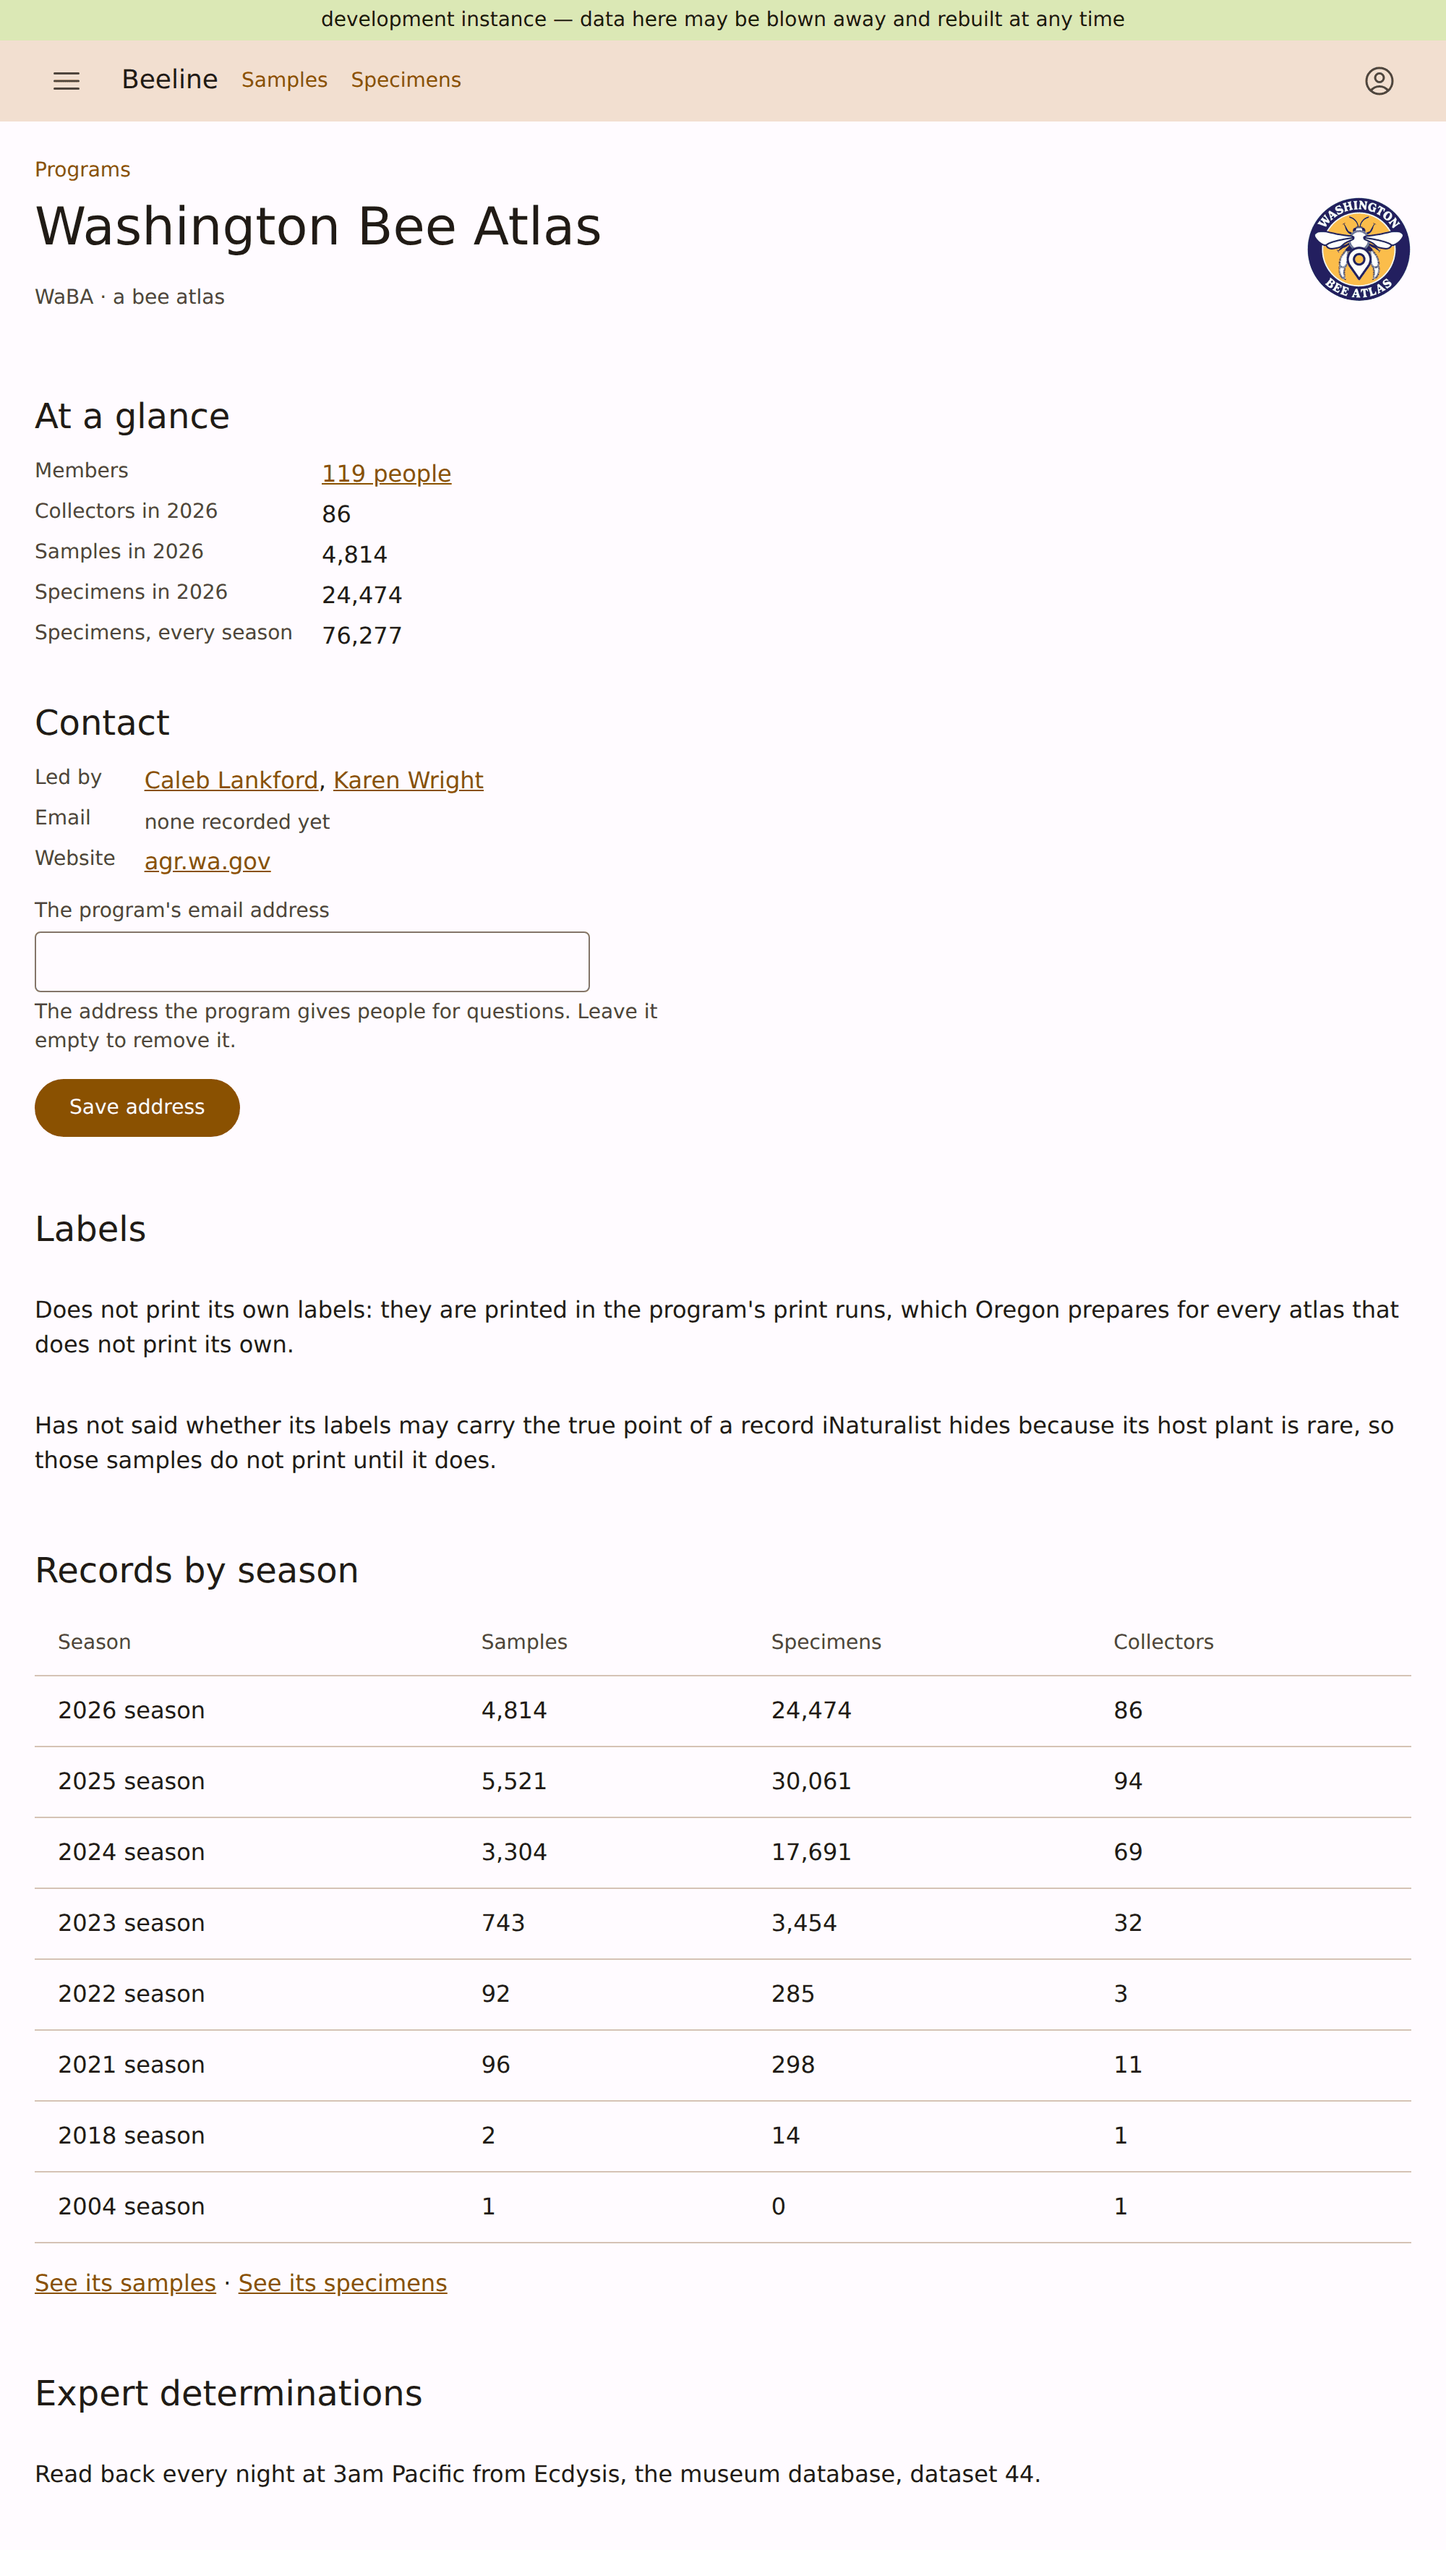
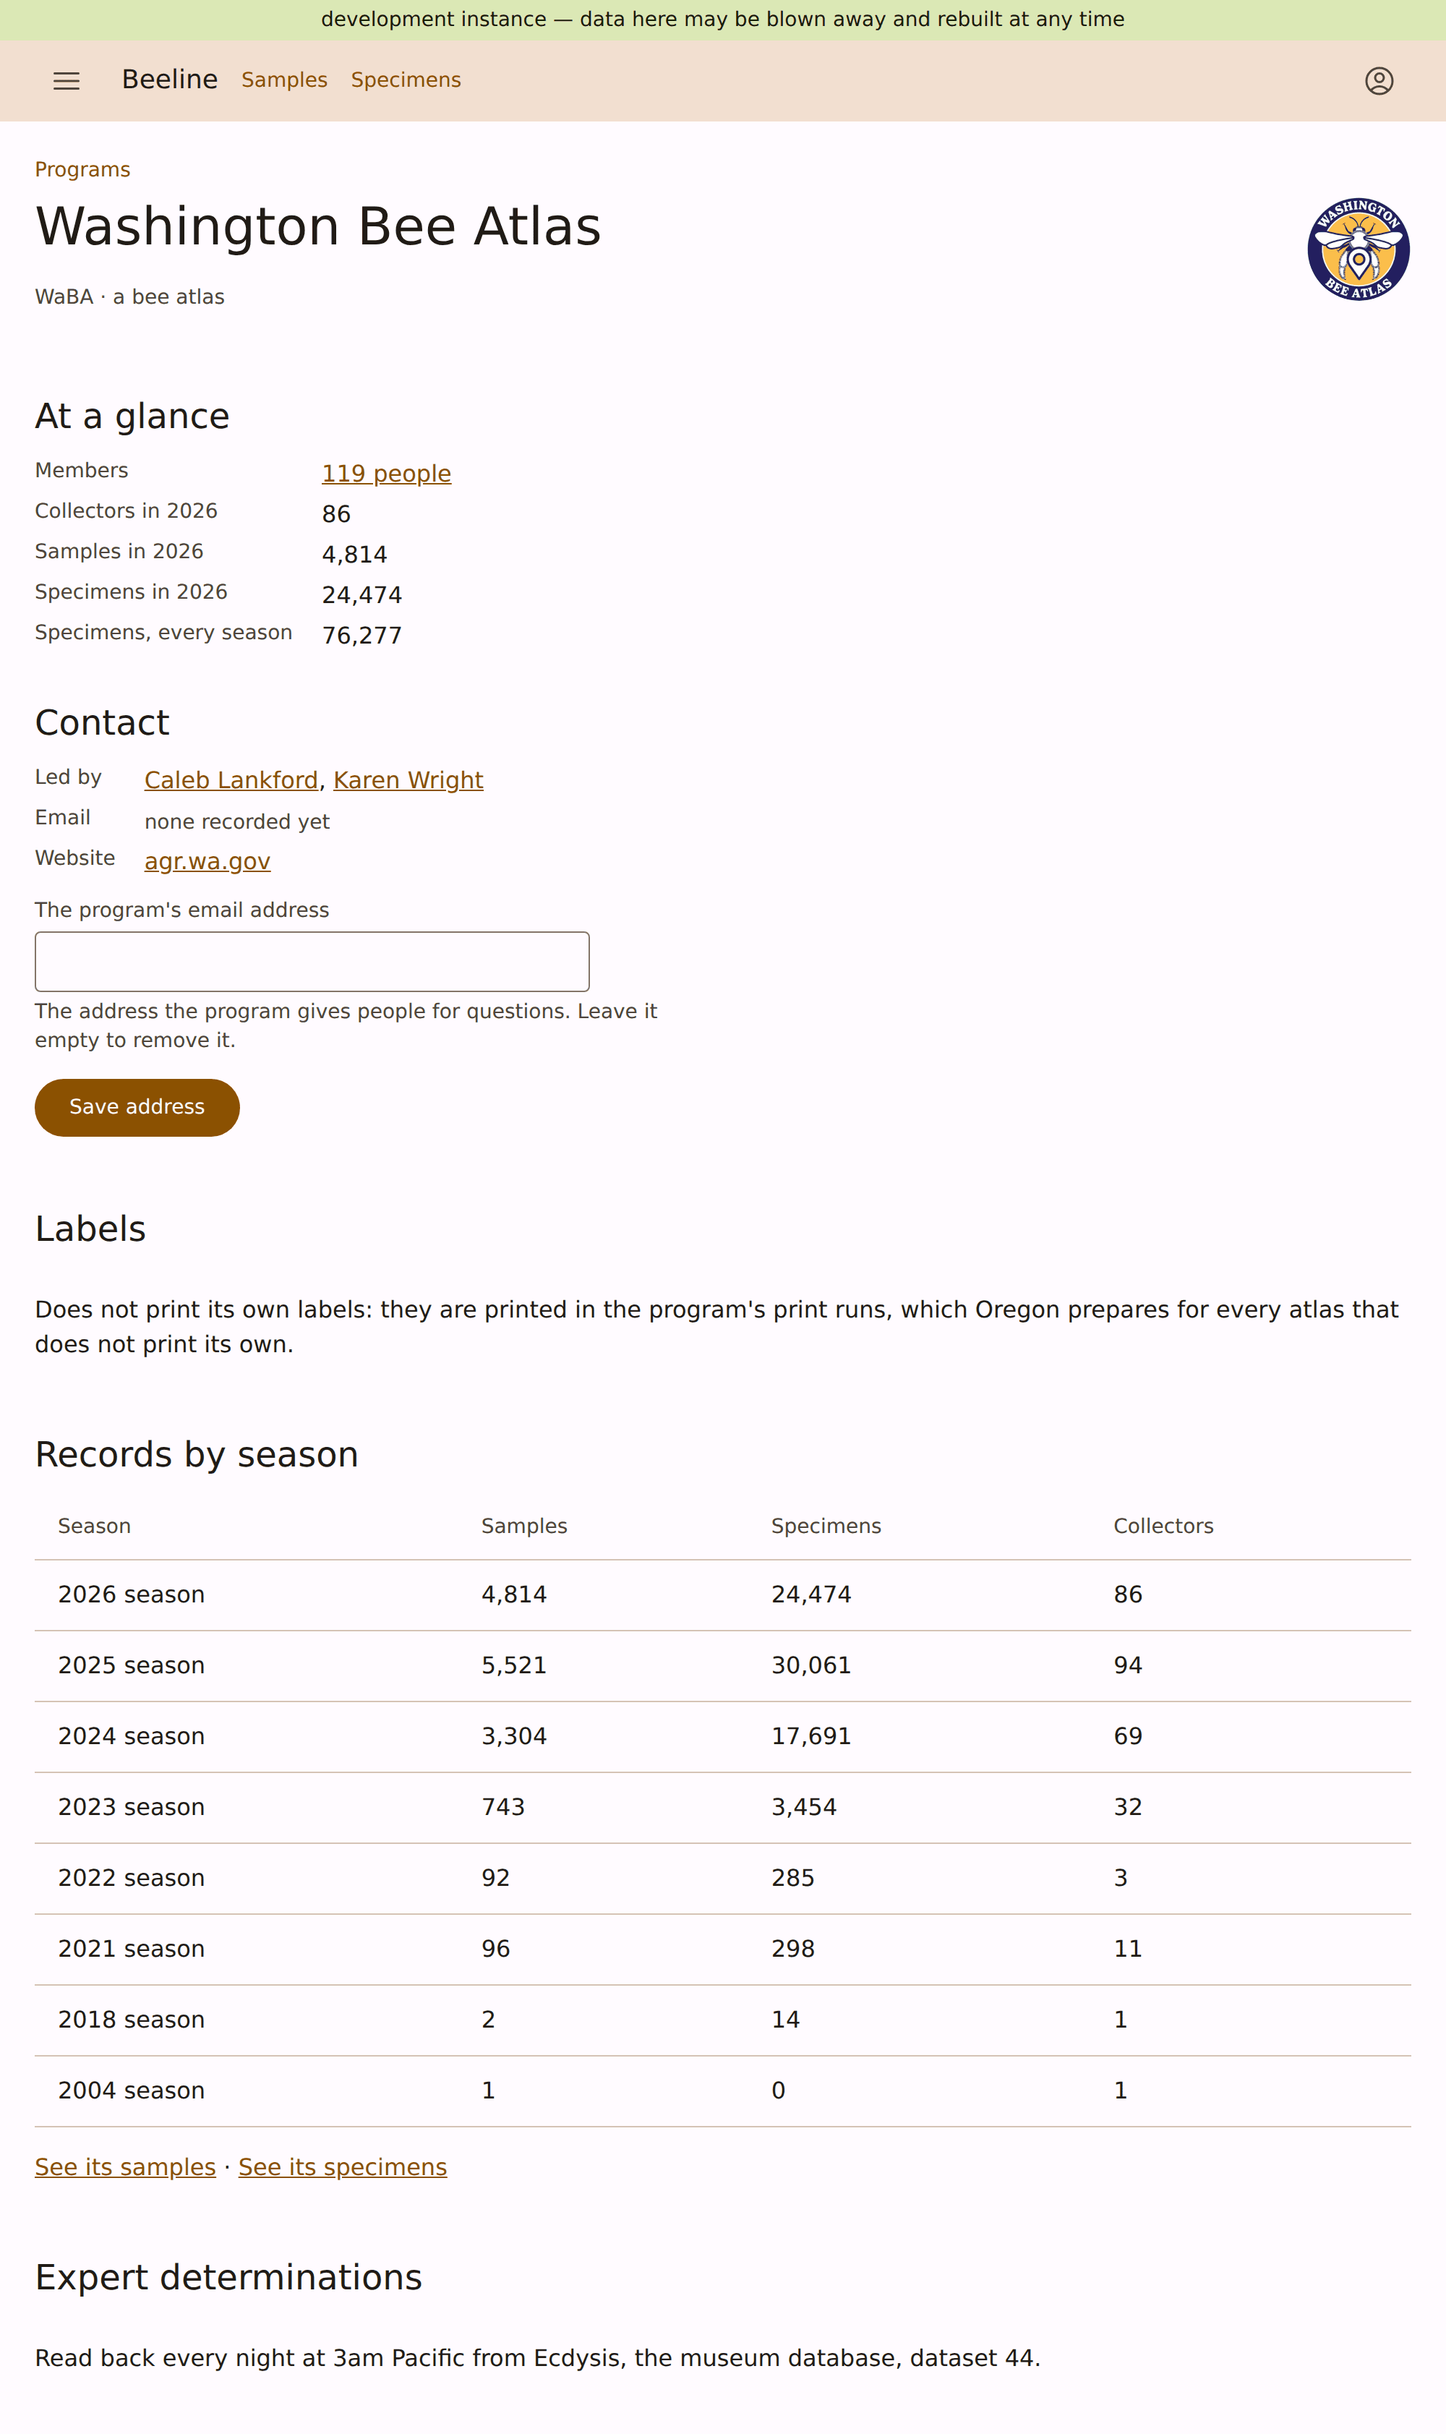
Programs: drop the taxon-obscured paragraph from the page
A label holds the true coordinates or none (Peter, 2026-10-23), so an
atlas's answer on printing an obscured record's true point is not something
the program page needs to say.

diff --git a/src/app/programs.ts b/src/app/programs.ts
@@ -10,8 +10,8 @@ import { personHandle } from "./roster.js";
  * The programs, as a listing and a page each (beeline-rrit): what Beeline
  * knows about a program, which until now was said in a dozen places — its
  * leads, how many people belong to it, its records by season, who prints its
- * labels, its answer on taxon-obscured coordinates, where its expert
- * determinations come back from, and how to reach it.
+ * labels, where its expert determinations come back from, and how to reach
+ * it.
  *
  * Read by everyone signed in, like the taxonomy: it shows totals, the names
  * of the program's own leads, and nobody's records. The links into records
@@ -64,24 +64,11 @@ export interface ProgramSummary {
   specimens: number;
 }
 
-export interface TaxonObscuredAnswer {
-  decidedBy: string;
-  decidedOn: Date;
-  source: string;
-}
-
 export interface ProgramDetail extends ProgramSummary {
   /** Every season it has records in, newest first. */
   seasons: SeasonCounts[];
   /** Who prints its labels: itself, in runs scoped to it, or the program's runs; null where it has no records to print. */
   printing: "own" | "program" | null;
-  /**
-   * Its answer on printing a taxon-obscured record's true point: the answer,
-   * `unanswered` for an atlas that has not given one, or `none` where no atlas
-   * can answer — Master Melittology's records fall outside every atlas, and
-   * the surveys have none by geography.
-   */
-  taxonObscured: TaxonObscuredAnswer | "unanswered" | "none";
   /** The address it gives people for questions, as staff last set it; null where none is set. */
   email: ProgramContact | null;
   /** The Ecdysis collections its expert determinations are read back from. */
@@ -227,17 +214,9 @@ export async function loadProgram(
   const [season, counts, members, leads] = await Promise.all([openSeason(db), seasonCounts(db), memberCounts(db), leadsByProgram(db)]);
   const summary = summarize(p, season, counts, members, leads);
   let printing: ProgramDetail["printing"] = null;
-  let taxonObscured: ProgramDetail["taxonObscured"] = "none";
   if (p.atlas_id !== null) {
     const { rows: own } = await sql<{ n: number }>`SELECT count(*) AS n FROM atlas_printing WHERE atlas_id = ${p.atlas_id}`.execute(db);
     printing = Number(own[0]!.n) > 0 ? "own" : "program";
-    const { rows: answers } = await sql<{ decided_by: string; decided_on: Date; source: string }>`
-      SELECT decided_by, decided_on, source FROM atlas_taxon_obscured_printing WHERE atlas_id = ${p.atlas_id}`.execute(db);
-    const answer = answers[0];
-    taxonObscured =
-      answer === undefined
-        ? "unanswered"
-        : { decidedBy: answer.decided_by, decidedOn: new Date(answer.decided_on), source: answer.source };
   } else if (summary.scope !== null) {
     // Master Melittology's are the samples outside every atlas, which the
     // program's own runs print.
@@ -246,7 +225,6 @@ export async function loadProgram(
   return {
     ...summary,
     printing,
-    taxonObscured,
     email: contacts.get(p.code)?.email ?? null,
     ecdysis: ECDYSIS_COLLECTIONS.filter((c) => c.program === p.code),
   };

diff --git a/test/programs.test.ts b/test/programs.test.ts
@@ -142,18 +142,15 @@ describe("a program's page", () => {
     expect(body).not.toMatch(EMPTY_VALUE_CELL);
   });
 
-  it("says whether the atlas prints its own labels, and its answer on taxon-obscured records", async () => {
+  it("says whether the atlas prints its own labels", async () => {
     const app = await programsApp();
-    const waba = await page(app, "/programs/WaBA");
-    expect(waba).toContain("Does not print its own labels");
-    expect(waba).toContain("Has not said whether its labels may carry the true point");
-    // Oregon's answer is seeded by the schema, with where it was given.
-    const oba = await page(app, "/programs/OBA");
-    expect(oba).toContain("Arthur Schrenk said so on Oct 21, 2026.");
-    expect(oba).toContain(`href="https://github.com/rainhead/beeline/issues/13#issuecomment-6327141377"`);
+    expect(await page(app, "/programs/WaBA")).toContain("Does not print its own labels");
+    expect(await page(app, "/programs/MM")).toContain("Does not print its own labels");
     await conn.run(`INSERT INTO atlas_printing (atlas_id) VALUES (${atlas("WaBA")})`);
-    expect(await page(app, "/programs/WaBA")).toContain("Prints its own labels");
-    expect(await page(app, "/programs/MM")).toContain("No atlas answers for records collected outside every atlas");
+    const waba = await page(app, "/programs/WaBA");
+    expect(waba).toContain("Prints its own labels");
+    // A label holds the true point or none, so the page says nothing about obscured records.
+    expect(waba).not.toContain("true point");
   });
 
   it("shows the atlas's mark beside its name, and none for a program without one", async () => {

diff --git a/src/app/views/programs.tsx b/src/app/views/programs.tsx
@@ -25,15 +25,6 @@ import {
 /** A records listing scoped to the program, as staff reach it. */
 const scopedHref = (path: "/samples" | "/specimens", scope: string) => `${path}?${new URLSearchParams({ scope }).toString()}`;
 
-/**
- * A link that may safely be one: http(s) as written, anything else as text.
- * The values arrive from curated files and the store, and escaping does not
- * stop a `javascript:` scheme from being a scheme.
- */
-function Source({ value, label }: { value: string; label: string }) {
-  return /^https?:\/\//i.test(value) ? <a href={value}>{label}</a> : <>{value}</>;
-}
-
 function Leads({ m, leads, admin }: { m: Messages; leads: ProgramLead[]; admin: boolean }) {
   if (leads.length === 0) return <Absent label={m.programs.noLeads} spelled />;
   return (
@@ -138,22 +129,10 @@ function Contact({ m, program, admin }: { m: Messages; program: ProgramDetail; a
 function Labels({ m, program }: { m: Messages; program: ProgramDetail }) {
   const p = m.programs;
   if (program.printing === null) return null;
-  const answer = program.taxonObscured;
   return (
     <>
       <h2>{p.labels}</h2>
       <p>{program.printing === "own" ? p.printsOwn : p.printedByProgram}</p>
-      <p>
-        {answer === "unanswered" ? (
-          p.taxonObscured.unanswered
-        ) : answer === "none" ? (
-          p.taxonObscured.outside
-        ) : (
-          <>
-            {p.taxonObscured.answered(answer.decidedBy, answer.decidedOn)} <Source value={answer.source} label={p.taxonObscured.where} />
-          </>
-        )}
-      </p>
     </>
   );
 }

diff --git a/src/app/messages/en.ts b/src/app/messages/en.ts
@@ -1277,15 +1277,6 @@ export const en = {
     printsOwn: "Prints its own labels, in print runs prepared for it alone.",
     printedByProgram:
       "Does not print its own labels: they are printed in the program's print runs, which Oregon prepares for every atlas that does not print its own.",
-    taxonObscured: {
-      answered: (by: string, on: Date | string) =>
-        `Its labels may carry the true point of a record iNaturalist hides because its host plant is rare. ${by} said so on ${date(on)}.`,
-      where: "Where it was said",
-      unanswered:
-        "Has not said whether its labels may carry the true point of a record iNaturalist hides because its host plant is rare, so those samples do not print until it does.",
-      outside:
-        "No atlas answers for records collected outside every atlas, so those whose host plant iNaturalist hides as rare do not print.",
-    },
     seasons: "Records by season",
     colSeason: "Season",
     colSeasonSamples: "Samples",

diff --git a/AGENTS.md b/AGENTS.md
@@ -120,7 +120,7 @@ Membership has two shapes and one absence: a member atlas, or the umbrella progr
 
 ### Programs
 
-`/programs` and `/programs/:code` (`src/app/programs.ts` + `src/app/views/programs.tsx`, beeline-rrit) gather what Beeline knows about each program, which was said in a dozen places: its mark, its leads, how many people belong to it, this season's collectors, samples and specimens, every season's records, whether it prints its own labels, its answer on taxon-obscured coordinates, the Ecdysis collection its expert determinations come back from (`ECDYSIS_COLLECTIONS` now names the program), and how to reach it. Licences and privacy policies stay on `/exports`, whose business they are. Read by everyone signed in, like the taxonomy, since it shows totals and the program's own leads and nobody's records; the links into the listings and the roster are drawn for staff only. A program is addressed by its code, never by `entity_id`. Its records follow the archives' rule — an atlas's ground, Master Melittology's outside every atlas, and none by geography for the BLM surveys. Contact is the leads, an atlas's website from `ATLAS_IDENTITY` beside its mark, and the email address the program gives for questions, which staff set on the page: each save is a line appended to `data/program-contacts.csv` (`src/program-contacts.ts`, `BEELINE_PROGRAM_CONTACTS`), the latest line for a program standing, so the file is its own history and the nightly backup carries it. Staff never edit a CSV. The address may be a staff member's work address, as the refuge project gives August Jackson's, but never one taken from the legacy register.
+`/programs` and `/programs/:code` (`src/app/programs.ts` + `src/app/views/programs.tsx`, beeline-rrit) gather what Beeline knows about each program, which was said in a dozen places: its mark, its leads, how many people belong to it, this season's collectors, samples and specimens, every season's records, whether it prints its own labels, the Ecdysis collection its expert determinations come back from (`ECDYSIS_COLLECTIONS` now names the program), and how to reach it. Licences and privacy policies stay on `/exports`, whose business they are. Read by everyone signed in, like the taxonomy, since it shows totals and the program's own leads and nobody's records; the links into the listings and the roster are drawn for staff only. A program is addressed by its code, never by `entity_id`. Its records follow the archives' rule — an atlas's ground, Master Melittology's outside every atlas, and none by geography for the BLM surveys. Contact is the leads, an atlas's website from `ATLAS_IDENTITY` beside its mark, and the email address the program gives for questions, which staff set on the page: each save is a line appended to `data/program-contacts.csv` (`src/program-contacts.ts`, `BEELINE_PROGRAM_CONTACTS`), the latest line for a program standing, so the file is its own history and the nightly backup carries it. Staff never edit a CSV. The address may be a staff member's work address, as the refuge project gives August Jackson's, but never one taken from the legacy register.
 
 ### ORCID
 
